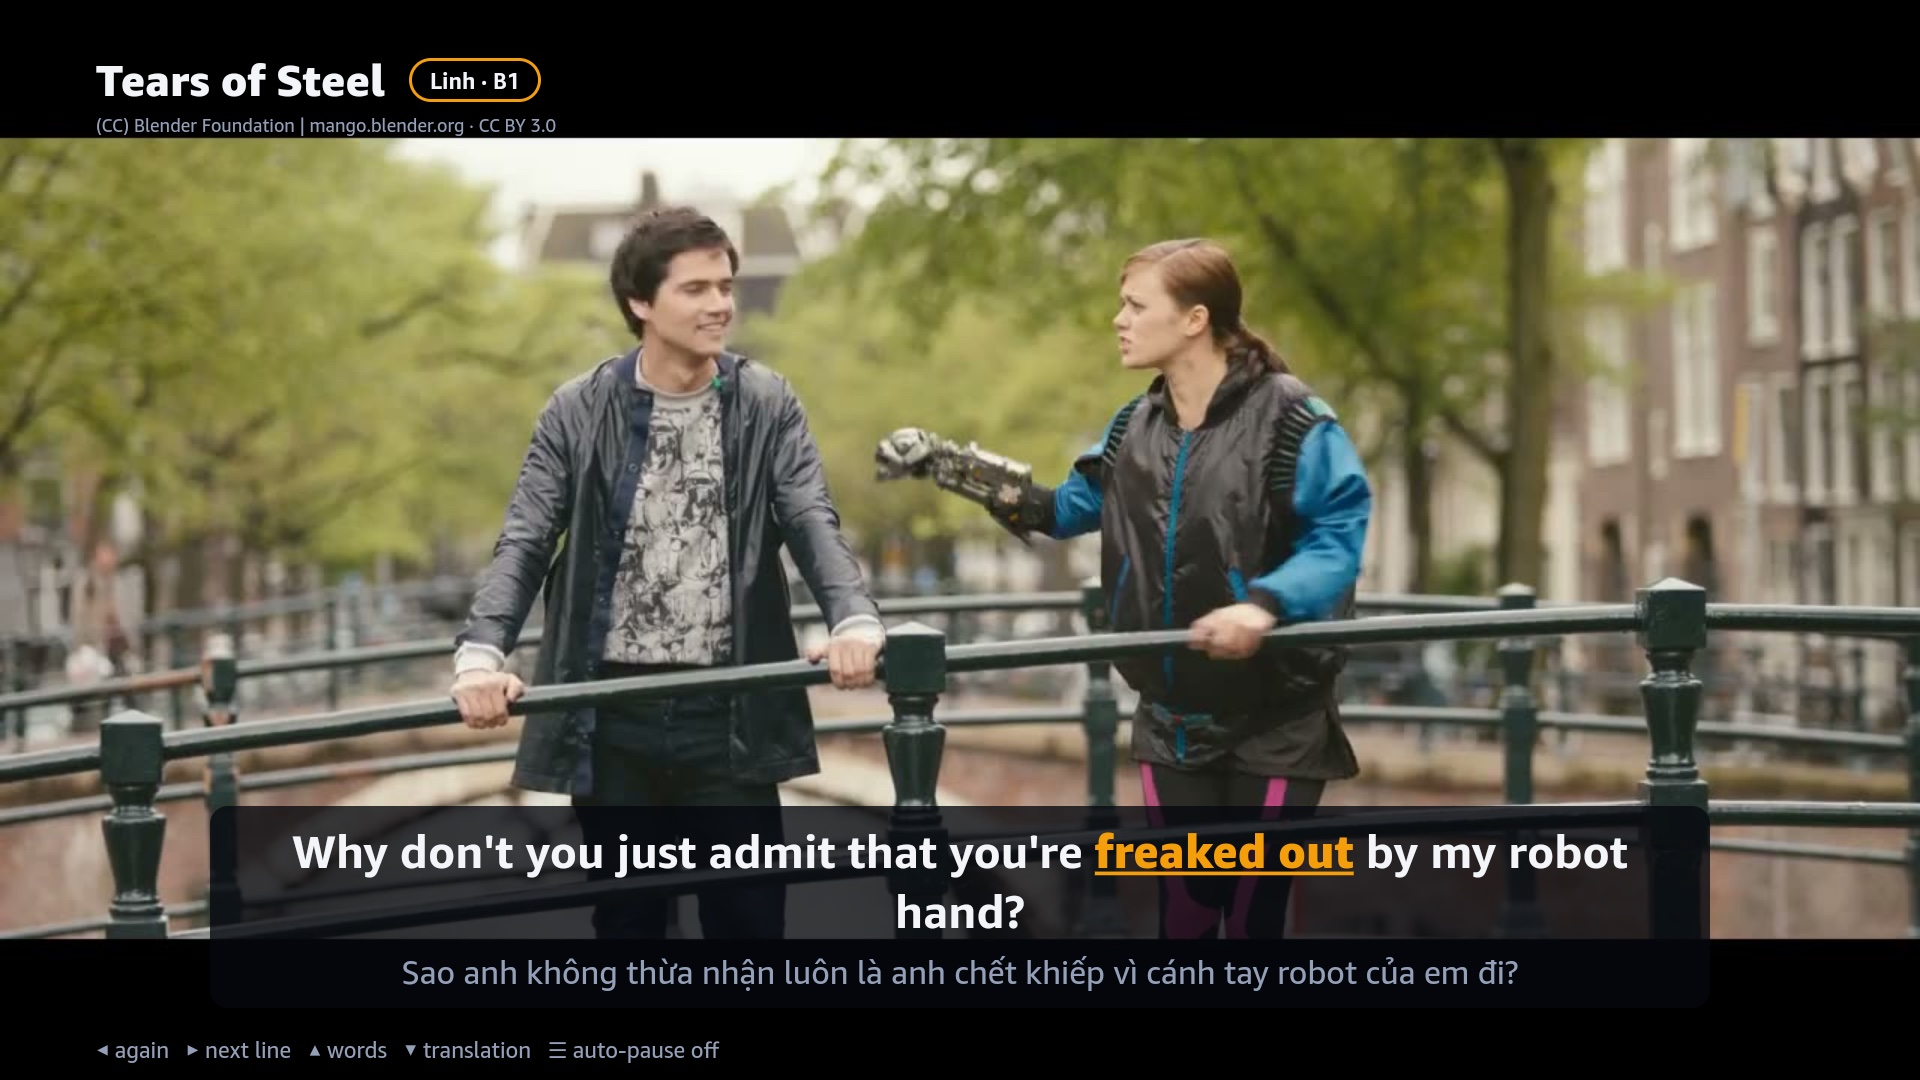
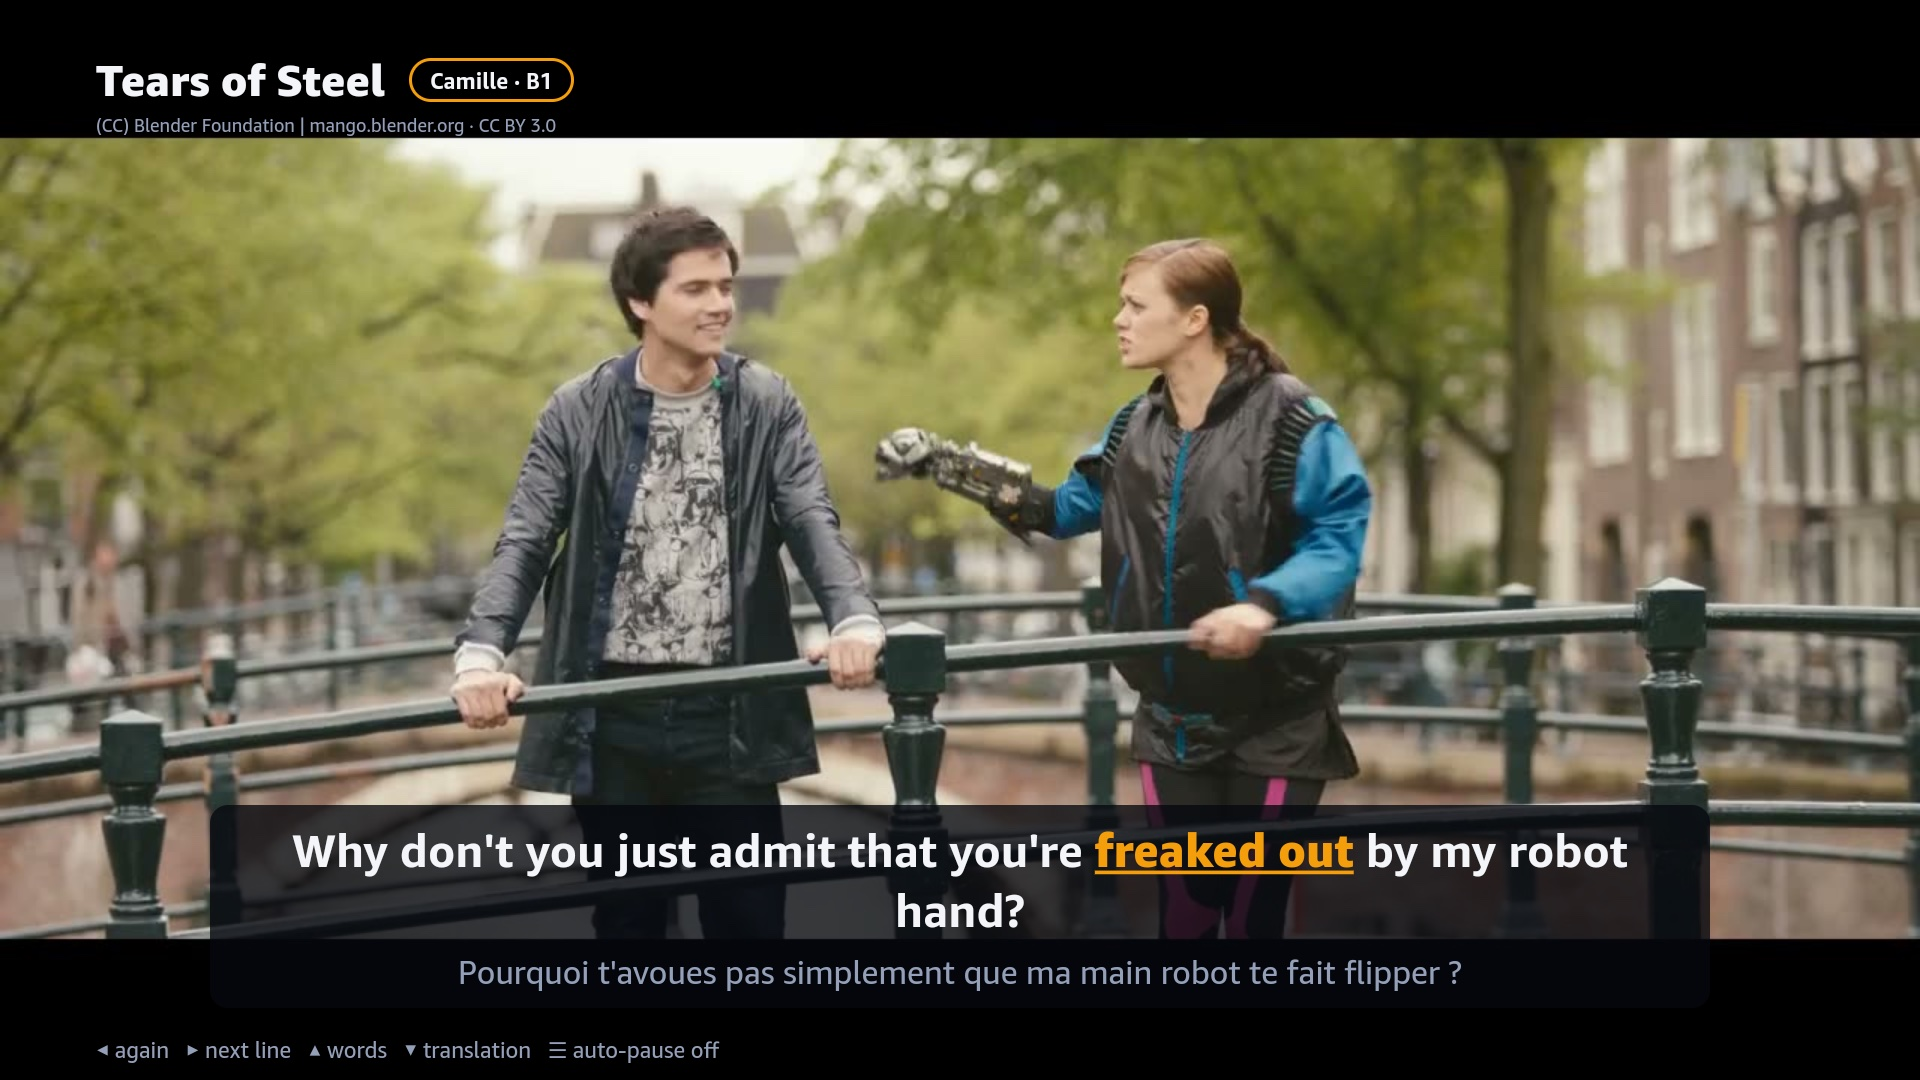
docs: show French and Spanish learners in the examples

diff --git a/README.md b/README.md
@@ -49,10 +49,10 @@ if (cmd.type === "previousLine") player.currentTime = previousLineTarget(cues, p
 <LearnerSubtitles
   cue={track.cues[index]}
   viewers={[
-    { id: "linh", name: "Linh", color: "#F59E0B", level: "B1", known: linhKnows },
-    { id: "minh", name: "Minh", color: "#38BDF8", level: "A2", known: minhKnows },
+    { id: "camille", name: "Camille", color: "#F59E0B", level: "B1", known: camilleKnows },
+    { id: "hugo", name: "Hugo", color: "#38BDF8", level: "A2", known: hugoKnows },
   ]}
-  langs={["vi"]}
+  langs={["fr"]}
   wordMode={mode === "words"}
   onSelectItem={(item) => openCard(item)}
   theme={{ fontSize: 23 }}
@@ -88,7 +88,7 @@ Learned the hard way while building Rerun (details in its
 | learning | `isNewFor`, `newForViewers`, `trackDifficulty`, `segmentLine`, `viewerLanguages`, `shouldAutoPause`, `EnrichedTrack` |
 | srs | `newCard`, `review`, `isDue`, `isMastered`, `sortForReview` |
 | shadowing | `scoreShadowing` |
-| protocol | `RoomMessage`, `parseRoomMessage`, `isPairCode` — messages for a phone companion paired by code (optional) |
+| protocol | `RoomMessage`, `parseRoomMessage`, `isPairCode` — messages for a phone companion paired by code (optional); `CardView` (a saved word, or a line to hear again) and `lineItemId` |
 | react-native | `LearnerSubtitles`, `FocusChip`, `defaultTheme`, `SubtitleTheme` |
 
 ## Develop
